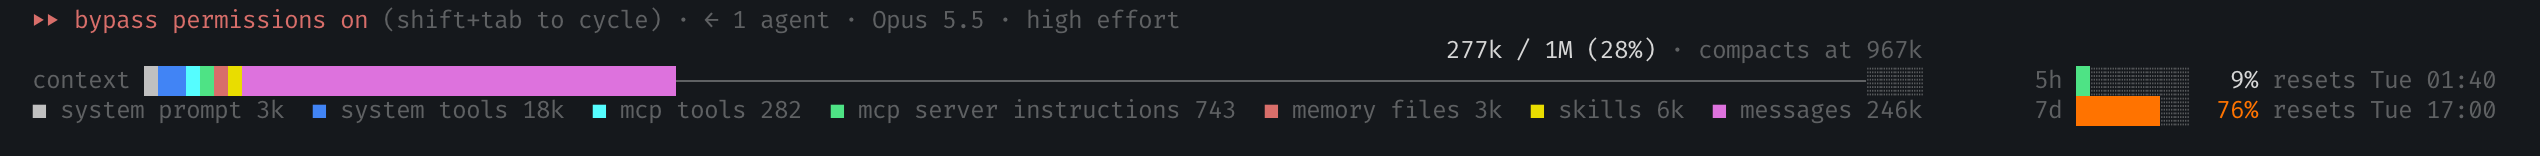
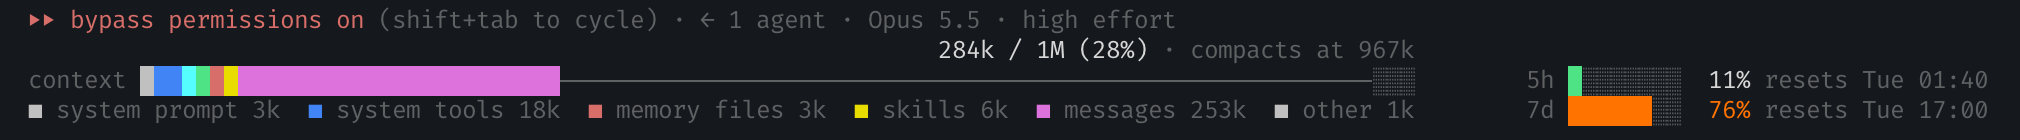
Use a narrower screenshot so the README's text is easier to read

Changed region(s): [[0.0, 0.4, 0.998, 0.9143], [0.0, 0.0571, 0.5926, 0.2286], [0.4678, 0.2571, 0.7797, 0.4286]]

diff --git a/README.md b/README.md
@@ -2,7 +2,7 @@
 
 A [Claude Code](https://claude.com/claude-code) mod that keeps your context use and plan limits in view, under the prompt, where Claude Code otherwise shows only its own one-line footer.
 
-![The footer under the Claude Code prompt. Claude Code's own line, which shows the permission mode, ends with "Opus 5.5 · high effort". Below it are the context figures (277k of 1M tokens in use, 28%, compacting at 967k), a bar split into colored categories with a long magenta stretch for messages, a legend of the categories with their tokens, and on the right the 5-hour meter (green, 9%) and the 7-day meter (orange, 76%) with their reset times.](images/footer.png)
+![The footer under the Claude Code prompt. Claude Code's own line, which shows the permission mode, ends with "Opus 5.5 · high effort". Below it are the context figures (284k of 1M tokens in use, 28%, compacting at 967k), a bar split into colored categories with a long magenta stretch for messages, a legend of the categories with their tokens, and on the right the 5-hour meter (green, 11%) and the 7-day meter (orange, 76%) with their reset times.](images/footer.png)
 
 The screenshot shows the footer in iTerm2 with Claude Code's `dark-ansi` theme. The 7-day meter is orange because it has passed 75% of its limit; below that it is blue.
 
